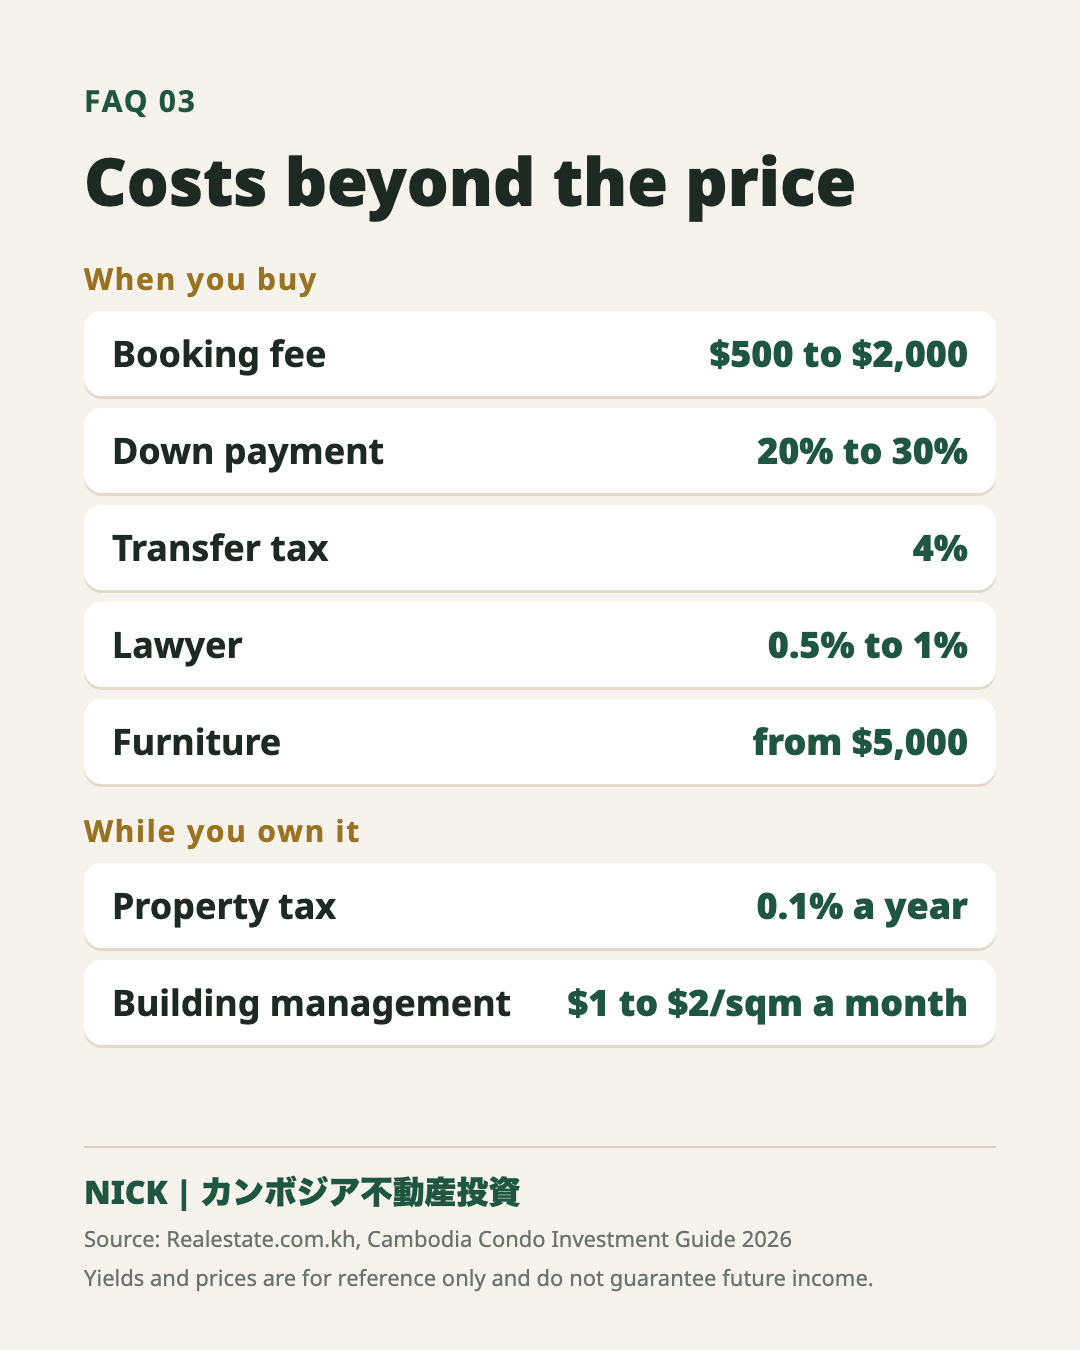
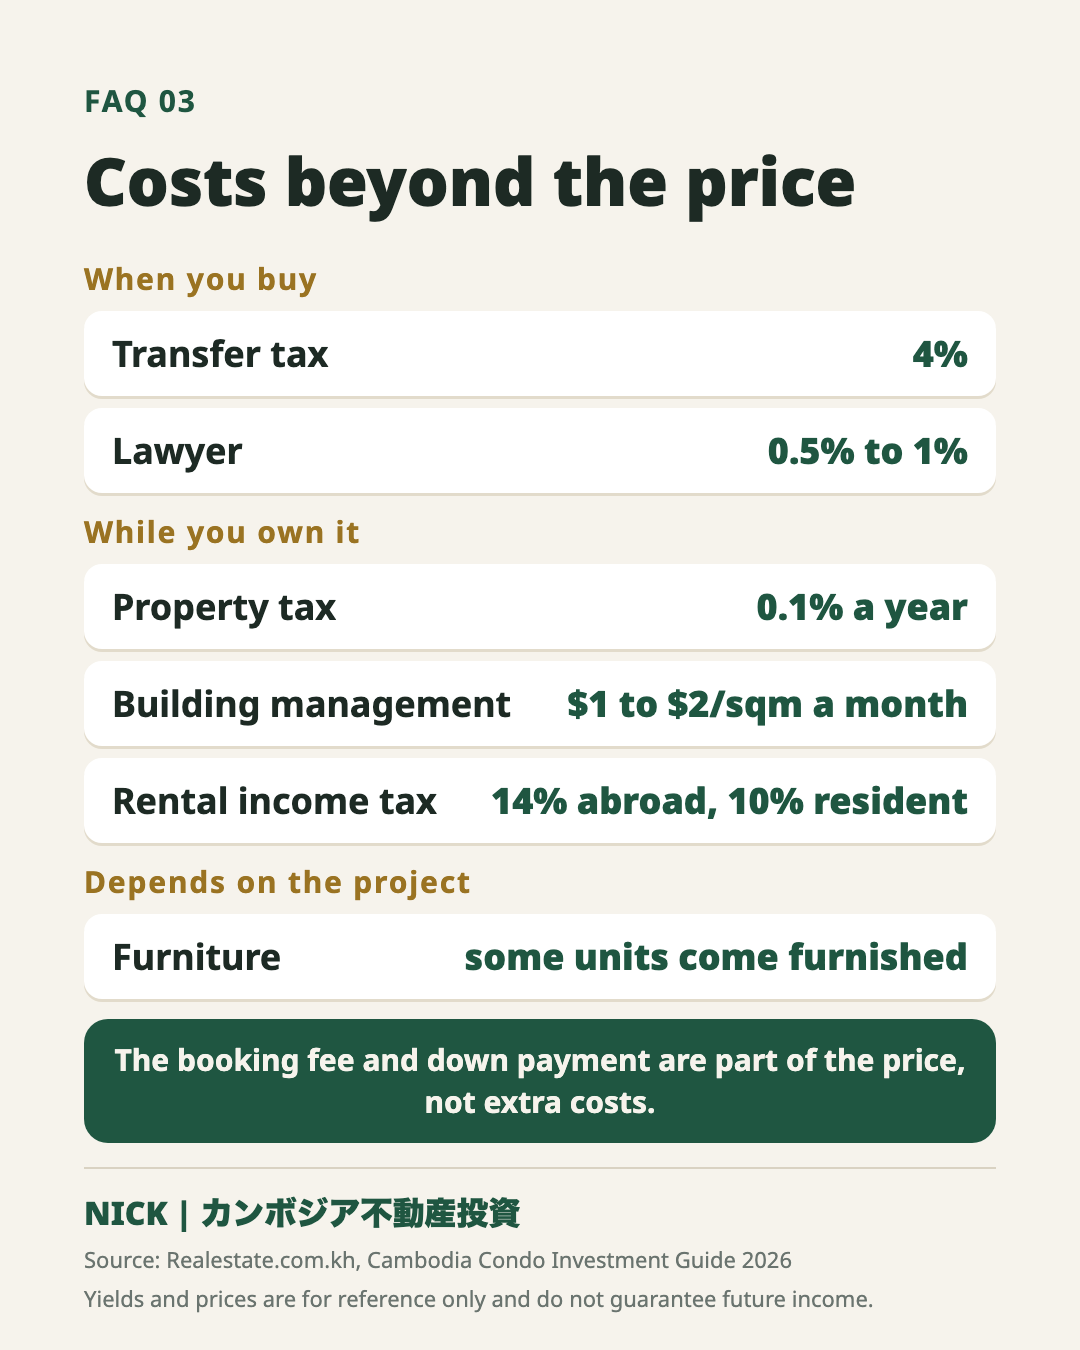
FAQ costs: only real extra costs; booking fee and down payment are part of the price
Removed booking fee and down payment (they count toward the price) and
moved furniture under 'Depends on the project' (some units come furnished).
Added rental income tax (14% abroad, 10% resident), from the Trusted Agent
app cost table. Pictures in jp, en and kh, bot text and Khmer draft.

diff --git a/telegram-bot-public/assets/faq/khmer-drafts.md b/telegram-bot-public/assets/faq/khmer-drafts.md
@@ -21,18 +21,19 @@ Please check: the wording, "ជាន់ទី ១" for the first floor above th
 <b>ចំណាយក្រៅពីតម្លៃ</b>
 
 <b>ពេលទិញ</b>
-▫ <b>ប្រាក់កក់៖</b> 500 ដល់ 2,000 ដុល្លារ
-▫ <b>ប្រាក់បង់ដំបូង៖</b> 20% ដល់ 30%
 ▫ <b>ពន្ធផ្ទេរកម្មសិទ្ធិ៖</b> 4%
 ▫ <b>មេធាវី៖</b> 0.5% ដល់ 1%
-▫ <b>គ្រឿងសង្ហារិម៖</b> ចាប់ពី 5,000 ដុល្លារ
 
 <b>ពេលកាន់កាប់</b>
 ▫ <b>ពន្ធលើអចលនទ្រព្យ៖</b> 0.1% ក្នុងមួយឆ្នាំ
 ▫ <b>ថ្លៃគ្រប់គ្រងអគារ៖</b> 1 ដល់ 2 ដុល្លារ ក្នុងមួយម៉ែត្រការ៉េ ក្នុងមួយខែ
+▫ <b>ពន្ធលើចំណូលជួល៖</b> 14% បើរស់នៅក្រៅប្រទេស និង 10% បើជានិវាសនជន
 
-<blockquote>អ្នកអភិវឌ្ឍខ្លះបង់ពន្ធផ្ទេរកម្មសិទ្ធិជំនួស ជាប្រូម៉ូសិន។</blockquote>
-Nick នឹងបញ្ជាក់តួលេខពិតប្រាកដសម្រាប់គម្រោងនីមួយៗ។
+<b>អាស្រ័យលើគម្រោង</b>
+▫ <b>គ្រឿងសង្ហារិម៖</b> បន្ទប់ខ្លះមានគ្រឿងសង្ហារិមស្រាប់
+
+<blockquote>ប្រាក់កក់ និងប្រាក់បង់ដំបូង ជាផ្នែកនៃតម្លៃ មិនមែនជាចំណាយបន្ថែមទេ។</blockquote>
+អ្នកអភិវឌ្ឍខ្លះបង់ពន្ធផ្ទេរកម្មសិទ្ធិជំនួស ជាប្រូម៉ូសិន។ Nick នឹងបញ្ជាក់តួលេខសម្រាប់គម្រោងនីមួយៗ។
 
 ## 3. What comes off the rent
 <b>អ្វីដែលកាត់ពីថ្លៃជួល</b>
